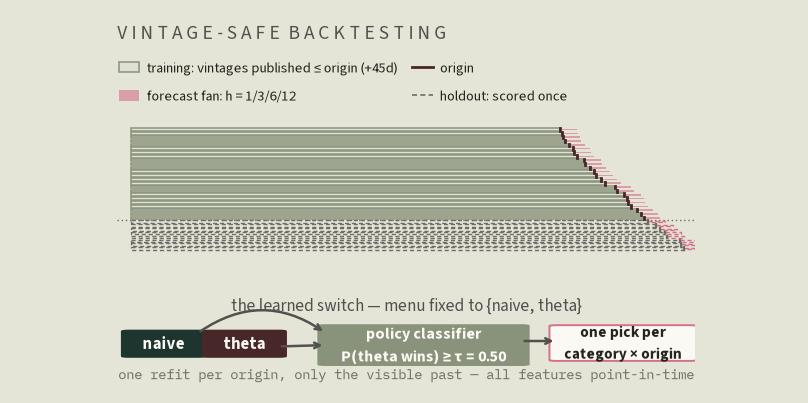
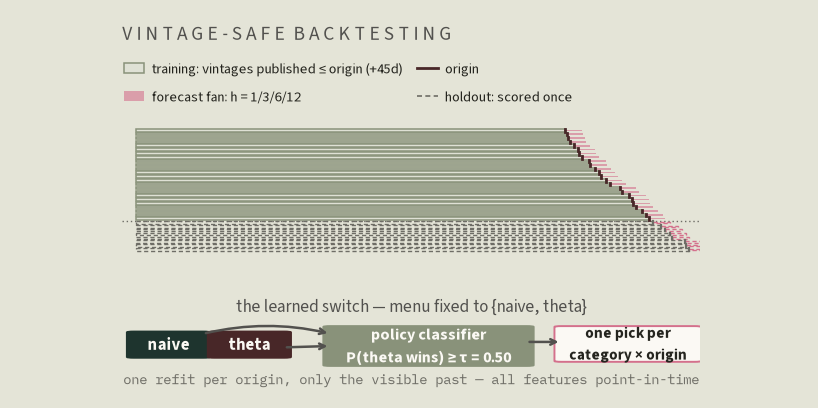
Schematic: clear the subtitle arc and footnote crowding
The naive->policy arc bulged through "the learned switch" subtitle
(rad -0.35 on a wide, short band); rad -0.12 keeps the hop below it.
The Plex Mono footnote drops from -0.06 to -0.12 so it clears the chip
row instead of grazing theta and the policy classifier.

diff --git a/scripts/method_schematic.py b/scripts/method_schematic.py
@@ -152,10 +152,10 @@ def main() -> None:
          SAGE, SAGE, "#fbf9f4", fs=11.5)
     chip(0.76, 0.22, 0.23, 0.5, "one pick per\ncategory × origin",
          "#fbf9f4", ROSE, INK, fs=11)
-    arrow(0.14, 0.62, 0.36, 0.62, rad=-0.35)  # arcs over theta
+    arrow(0.14, 0.62, 0.36, 0.62, rad=-0.12)  # gentle arc over theta, well below the subtitle
     arrow(0.28, 0.42, 0.36, 0.44)
     arrow(0.70, 0.5, 0.76, 0.5)
-    ax2.text(0.5, -0.06, "one refit per origin, only the visible past — all features point-in-time",
+    ax2.text(0.5, -0.12, "one refit per origin, only the visible past — all features point-in-time",
              fontsize=10, color=MUTED, ha="center", fontfamily="IBM Plex Mono")
 
     # The gallery card box (.project-art, 320.7 x 160) shows previews with
